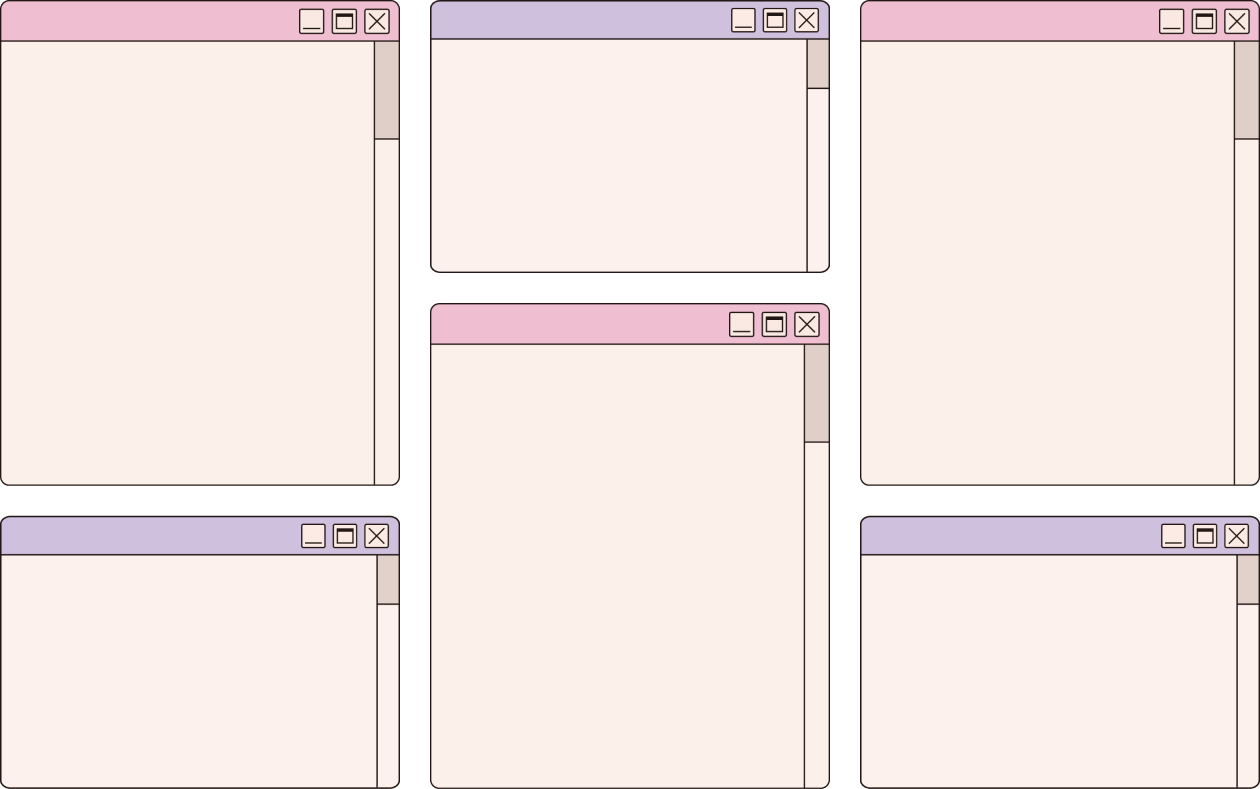
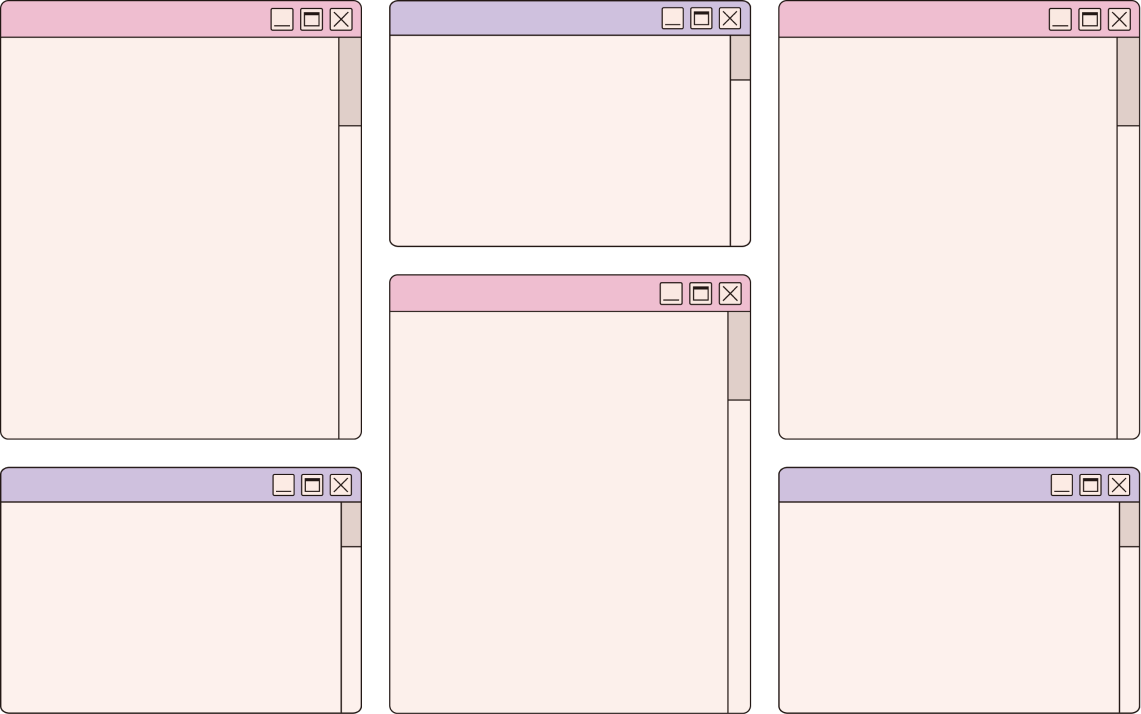
포폴 코딩중..

diff --git a/docs/index.html b/docs/index.html
@@ -102,16 +102,27 @@
     <!-- 포트폴리오 -->
     <section class="section relative fp-auto-height-responsive" data-anchor="portfolio">
       <a href="#home"><img src="resource/img/btn_1_2.png" alt="상단버튼" class="section-item icon-up"></a>
-      <div><img src="resource/img/3-1.png" alt="포트폴리오1" class="pf-img-1"></div>
-      <!-- <div><img src="resource/img/3-2.png" alt="스티커1" class="section-item pf-img-2"></div>
-      <div><img src="resource/img/3-3.png" alt="스티커2" class="section-item pf-img-3"></div> -->
-      <div><img src="resource/img/3-4.png" alt="스티커3" class="section-item pf-img-4"></div>
-      <div><img src="resource/img/3-5.png" alt="스티커4" class="section-item pf-img-5"></div>
-      <div class="mousemove-effect-1-el inline-block pf-img-2" data-mousemove-effect1-hor-res="0.01" data-mousemove-effect1-ver-res="0.01">
-  <img class="block" src="resource/img/3-2.png" alt="">
-      <div class="mousemove-effect-1-el inline-block pf-img-3" data-mousemove-effect1-hor-res="0.01" data-mousemove-effect1-ver-res="0.01">
-  <img class="block" src="resource/img/3-3.png" alt="">
-</div>
+      <!--<div><img src="resource/img/3-1.png" alt="포트폴리오1" class="section-item pf-img-1"></div>
+      <div class="mousemove-effect-1-el section-item pf-img-2" data-mousemove-effect1-hor-res="0.03" data-mousemove-effect1-ver-res="0.03">
+  <img class="block" src="resource/img/3-2.png" alt=""></div>
+      <div class="mousemove-effect-1-el section-item pf-img-3" data-mousemove-effect1-hor-res="0.02" data-mousemove-effect1-ver-res="0.02">
+  <img class="block" src="resource/img/3-3.png" alt=""></div>
+      <div class="mousemove-effect-1-el section-item pf-img-4" data-mousemove-effect1-hor-res="0.01" data-mousemove-effect1-ver-res="0.01">
+  <img class="block" src="resource/img/3-4.png" alt=""></div> -->
+      <div class="pf-wrap flex">
+        <div class="pf-wrap-1">
+          <div class="pf-1"><div>포폴1</div></div>
+          <div class="pf-2"><div>포폴2</div></div>
+        </div>
+        <div class="pf-wrap-2">
+          <div class="pf-3"><div>포폴3</div></div>
+          <div class="pf-4"><div>포폴4</div></div>
+        </div>
+        <div class="pf-wrap-3">
+          <div class="pf-5"><div>포폴5</div></div>
+          <div class="pf-6"><div>포폴6</div></div>
+        </div>
+      </div>
     </section>
 
     <!-- 연락 -->

diff --git a/docs/resource/common.css b/docs/resource/common.css
@@ -107,50 +107,69 @@ body {
   top: 50%;
   left: 50%;
   transform: translate(-50%, -50%);
-  font-size: 90px;
+  font-size: 80px;
   color: #A37CC9;
   text-shadow: 2px 2px 4px #000;
 }
 
 /* 자기소개 */
 .am-img-1 {
-  margin:170 330px;
+  top: 50%;
+  left: 50%;
+  transform: translate(-50%, -50%);
 }
 
 /* 포트폴리오 */
 .pf-img-1 {
-  top:170px;
-  left:330px;
+  top: 55%;
+  left: 50%;
+  transform: translate(-50%, -50%);
+  z-index: 100;
 }
 
 .pf-img-2 {
-  top:272px;
-  left:67px;
+  top:21.4444%;
+  left:4.1666%;
 }
 
 .pf-img-3 {
-  top:403px;
-  left:44px;
+  top:35.3333%;
+  left:7.291%;
 }
 
 .pf-img-4 {
-  top:874px;
-  left:54px;
+  top:64.037%;
+  left:5%;
 }
 
-.pf-img-5 {
-  top:668px;
-  left:1561px;
+.pf-wrap {
+  margin-left:390px;
+  margin-top:200px;
+}
+
+.pf-wrap > div {
+  width:360px;
+  height:712.49px;
+  border:10px solid red;
+  box-sizing: border-box;
+}
+
+.pf-wrap > div:not(:last-child) {
+  margin-right: 30px;
+}
+
+.pf-1, .pf-4, .pf-5 {
+  background-image: url("");
 }
 
 /* 연락 */
 .ct-img-1 {
-  top: 257px;
+  top: 227px;
   left: 300px;
 }
 
 .ct-img-2 {
-  top: 228px;
+  top: 198px;
   left: 1000px;
 }
 
@@ -171,17 +190,17 @@ body {
 }
 
 .ct-form-1 {
-  top: 330px;
+  top: 300px;
   left: 1100px;
 }
 
 .ct-form-2 {
-  top: 405px;
+  top: 375px;
   left: 1100px;
 }
 
 .ct-form-3 {
-  top: 721px;
+  top: 691px;
   left: 1080px;
 }
 

diff --git a/resource/common.css b/resource/common.css
@@ -107,50 +107,69 @@ body {
   top: 50%;
   left: 50%;
   transform: translate(-50%, -50%);
-  font-size: 90px;
+  font-size: 80px;
   color: #A37CC9;
   text-shadow: 2px 2px 4px #000;
 }
 
 /* 자기소개 */
 .am-img-1 {
-  margin:170 330px;
+  top: 50%;
+  left: 50%;
+  transform: translate(-50%, -50%);
 }
 
 /* 포트폴리오 */
 .pf-img-1 {
-  top:170px;
-  left:330px;
+  top: 55%;
+  left: 50%;
+  transform: translate(-50%, -50%);
+  z-index: 100;
 }
 
 .pf-img-2 {
-  top:272px;
-  left:67px;
+  top:21.4444%;
+  left:4.1666%;
 }
 
 .pf-img-3 {
-  top:403px;
-  left:44px;
+  top:35.3333%;
+  left:7.291%;
 }
 
 .pf-img-4 {
-  top:874px;
-  left:54px;
+  top:64.037%;
+  left:5%;
 }
 
-.pf-img-5 {
-  top:668px;
-  left:1561px;
+.pf-wrap {
+  margin-left:390px;
+  margin-top:200px;
+}
+
+.pf-wrap > div {
+  width:360px;
+  height:712.49px;
+  border:10px solid red;
+  box-sizing: border-box;
+}
+
+.pf-wrap > div:not(:last-child) {
+  margin-right: 30px;
+}
+
+.pf-1, .pf-4, .pf-5 {
+  background-image: url("");
 }
 
 /* 연락 */
 .ct-img-1 {
-  top: 257px;
+  top: 227px;
   left: 300px;
 }
 
 .ct-img-2 {
-  top: 228px;
+  top: 198px;
   left: 1000px;
 }
 
@@ -171,17 +190,17 @@ body {
 }
 
 .ct-form-1 {
-  top: 330px;
+  top: 300px;
   left: 1100px;
 }
 
 .ct-form-2 {
-  top: 405px;
+  top: 375px;
   left: 1100px;
 }
 
 .ct-form-3 {
-  top: 721px;
+  top: 691px;
   left: 1080px;
 }
 

diff --git a/index.ssg.php b/index.ssg.php
@@ -17,16 +17,27 @@
     <!-- 포트폴리오 -->
     <section class="section relative fp-auto-height-responsive" data-anchor="portfolio">
       <a href="#home"><img src="resource/img/btn_1_2.png" alt="상단버튼" class="section-item icon-up"></a>
-      <div><img src="resource/img/3-1.png" alt="포트폴리오1" class="pf-img-1"></div>
-      <!-- <div><img src="resource/img/3-2.png" alt="스티커1" class="section-item pf-img-2"></div>
-      <div><img src="resource/img/3-3.png" alt="스티커2" class="section-item pf-img-3"></div> -->
-      <div><img src="resource/img/3-4.png" alt="스티커3" class="section-item pf-img-4"></div>
-      <div><img src="resource/img/3-5.png" alt="스티커4" class="section-item pf-img-5"></div>
-      <div class="mousemove-effect-1-el inline-block pf-img-2" data-mousemove-effect1-hor-res="0.01" data-mousemove-effect1-ver-res="0.01">
-  <img class="block" src="resource/img/3-2.png" alt="">
-      <div class="mousemove-effect-1-el inline-block pf-img-3" data-mousemove-effect1-hor-res="0.01" data-mousemove-effect1-ver-res="0.01">
-  <img class="block" src="resource/img/3-3.png" alt="">
-</div>
+      <!--<div><img src="resource/img/3-1.png" alt="포트폴리오1" class="section-item pf-img-1"></div>
+      <div class="mousemove-effect-1-el section-item pf-img-2" data-mousemove-effect1-hor-res="0.03" data-mousemove-effect1-ver-res="0.03">
+  <img class="block" src="resource/img/3-2.png" alt=""></div>
+      <div class="mousemove-effect-1-el section-item pf-img-3" data-mousemove-effect1-hor-res="0.02" data-mousemove-effect1-ver-res="0.02">
+  <img class="block" src="resource/img/3-3.png" alt=""></div>
+      <div class="mousemove-effect-1-el section-item pf-img-4" data-mousemove-effect1-hor-res="0.01" data-mousemove-effect1-ver-res="0.01">
+  <img class="block" src="resource/img/3-4.png" alt=""></div> -->
+      <div class="pf-wrap flex">
+        <div class="pf-wrap-1">
+          <div class="pf-1"><div>포폴1</div></div>
+          <div class="pf-2"><div>포폴2</div></div>
+        </div>
+        <div class="pf-wrap-2">
+          <div class="pf-3"><div>포폴3</div></div>
+          <div class="pf-4"><div>포폴4</div></div>
+        </div>
+        <div class="pf-wrap-3">
+          <div class="pf-5"><div>포폴5</div></div>
+          <div class="pf-6"><div>포폴6</div></div>
+        </div>
+      </div>
     </section>
 
     <!-- 연락 -->
